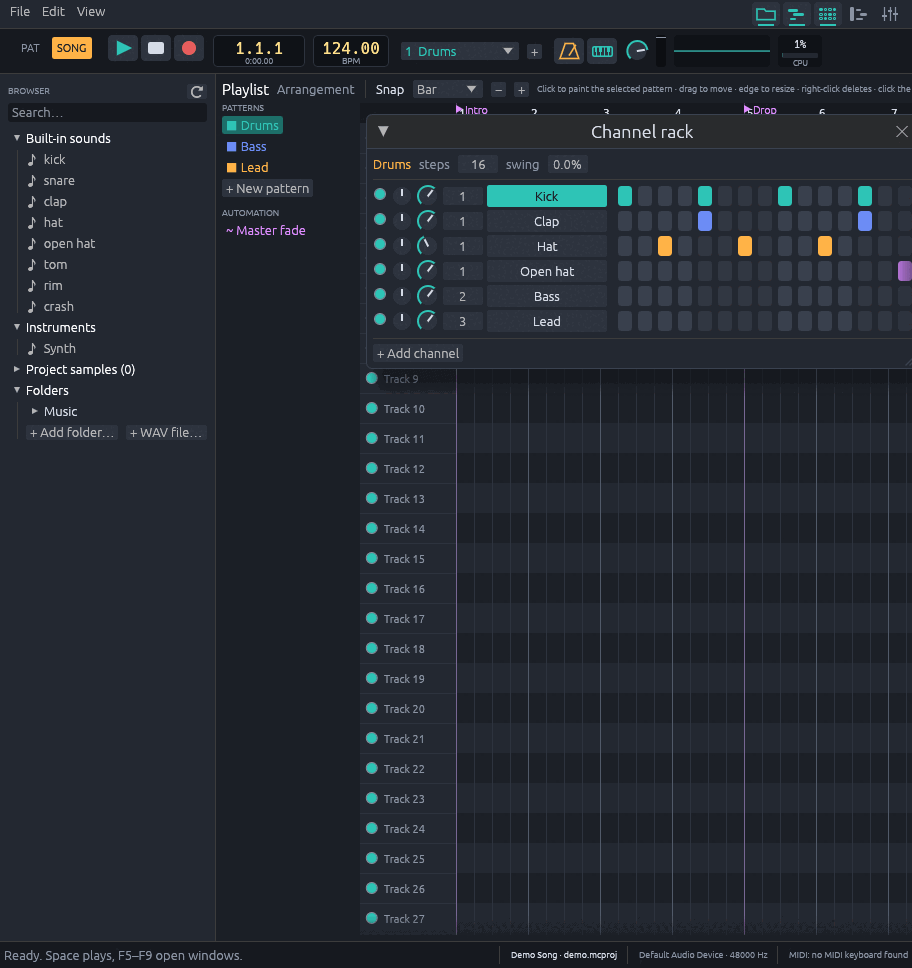
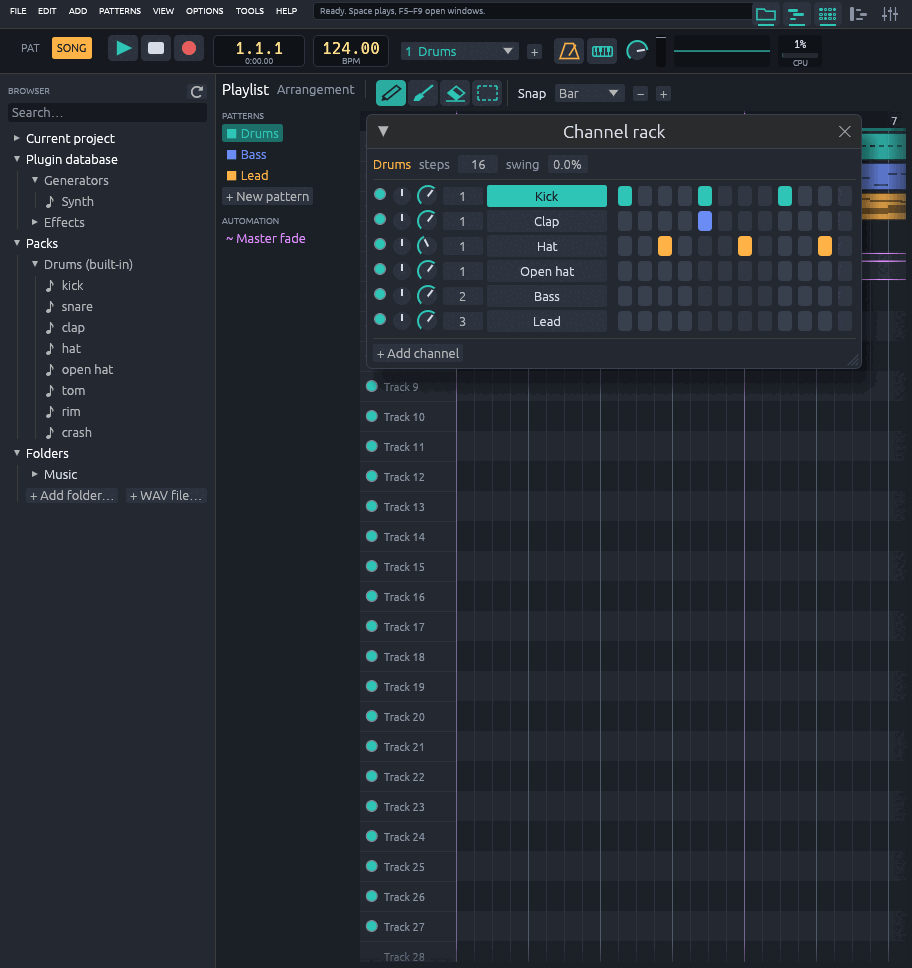
README: new screenshots and the settings, tools and effect windows

diff --git a/README.md b/README.md
@@ -5,7 +5,7 @@ channel rack, piano roll, playlist and mixer, with familiar default shortcuts.
 Runs on Linux, macOS and Windows. Everything the app can do is a command, so it
 can be driven from the GUI, scripts, the CLI, or an AI agent over MCP.
 
-![Playlist arrangement with markers and automation, and the docked mixer](docs/screenshots/playlist-mixer.png)
+![Playlist arrangement with markers and automation, and the mixer window](docs/screenshots/playlist-mixer.png)
 
 <table>
   <tr>
@@ -15,6 +15,12 @@ can be driven from the GUI, scripts, the CLI, or an AI agent over MCP.
   <tr>
     <td align="center">Channel rack</td>
     <td align="center">Piano roll</td>
+  </tr>
+  <tr>
+    <td colspan="2"><img src="docs/screenshots/synth-and-eq.png" alt="Built-in synth editor with presets, and the equalizer window with its response curve"></td>
+  </tr>
+  <tr>
+    <td colspan="2" align="center">Synth editor and an effect window</td>
   </tr>
 </table>
 
@@ -50,23 +56,34 @@ channel_rack,piano_roll,playlist,mixer,browser`.
 | Ctrl+Z, Ctrl+Y | Undo / redo |
 | Ctrl+S, Ctrl+O, Ctrl+R | Save / open / export WAV |
 | Ctrl+M, Ctrl+E, Ctrl+T | Metronome / record / typing keyboard |
+| F10 | Settings (audio device, buffer, MIDI port, scale, folders) |
 
+Hover any control and the hint bar at the top says what it does.
+
+- **Tools**: the playlist and piano roll have draw, paint, delete and select
+  tools (pencil, brush, eraser, box) at the top left.
 - **Playlist** (main workspace): paint patterns, automation or audio clips;
   click, Shift+click or Ctrl+drag to select; drag to move or resize; Delete,
   Ctrl+B duplicate. Click the ruler to seek, Shift+drag it to set a loop,
   right-click it for markers.
 - **Channel rack**: click steps; knobs for pan and volume (double-click resets);
-  click a channel name for its settings (envelope, filter, glide, sample view);
-  melodic channels show a mini piano roll.
+  click a channel name for its settings. The synth has presets, two
+  oscillators with unison and spread, sub, drive, low/band/high-pass filter
+  with a live curve, an LFO and an envelope; melodic channels show a mini
+  piano roll.
 - **Piano roll**: click to draw (single notes or chords), drag to move, drag the
   right edge to resize, right-click to delete; selection with copy, paste,
-  Ctrl+B and arrow keys; velocity/pan lane at the bottom; scale highlighting.
+  Ctrl+B and arrow keys; velocity/pan lane at the bottom; scale highlighting;
+  other channels' notes show as ghost notes.
 - **Mixer** (F9, floating): faders with a dB curve, pan, on/solo, ten effect slots
   (filter, EQ, delay, reverb, chorus, compressor with sidechain, limiter,
-  distortion), sends via the arrows under each strip.
+  distortion), sends via the arrows under each strip. Click an effect to open
+  its window: presets, and a graph you can drag (EQ and filter curves,
+  compressor knee, delay echoes…).
 - **Automation**: right-click any knob or fader → Create automation clip;
   double-click the clip to edit its curve.
-- **Browser**: built-in sounds, your folders, search; click previews,
+- **Browser**: current project, plugin database (generators and effects),
+  packs and your folders, with search; click previews,
   double-click adds, drag onto the rack (new channel) or the playlist (audio
   clip).
 - **Recording**: REC + playing records a MIDI or typing keyboard into the
